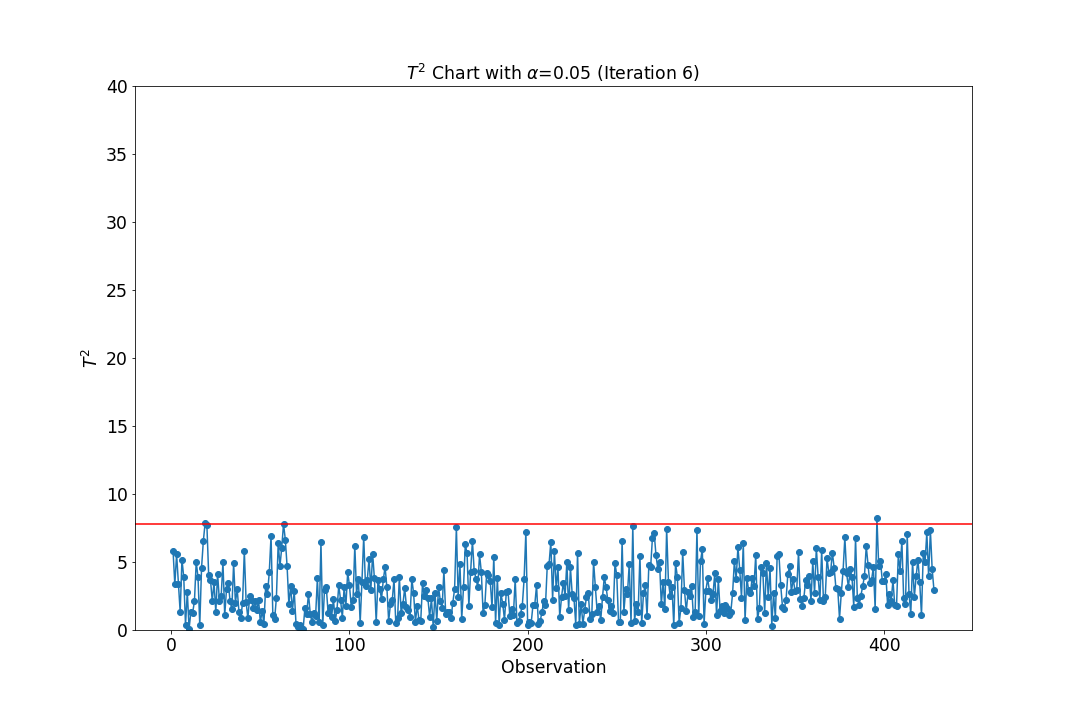
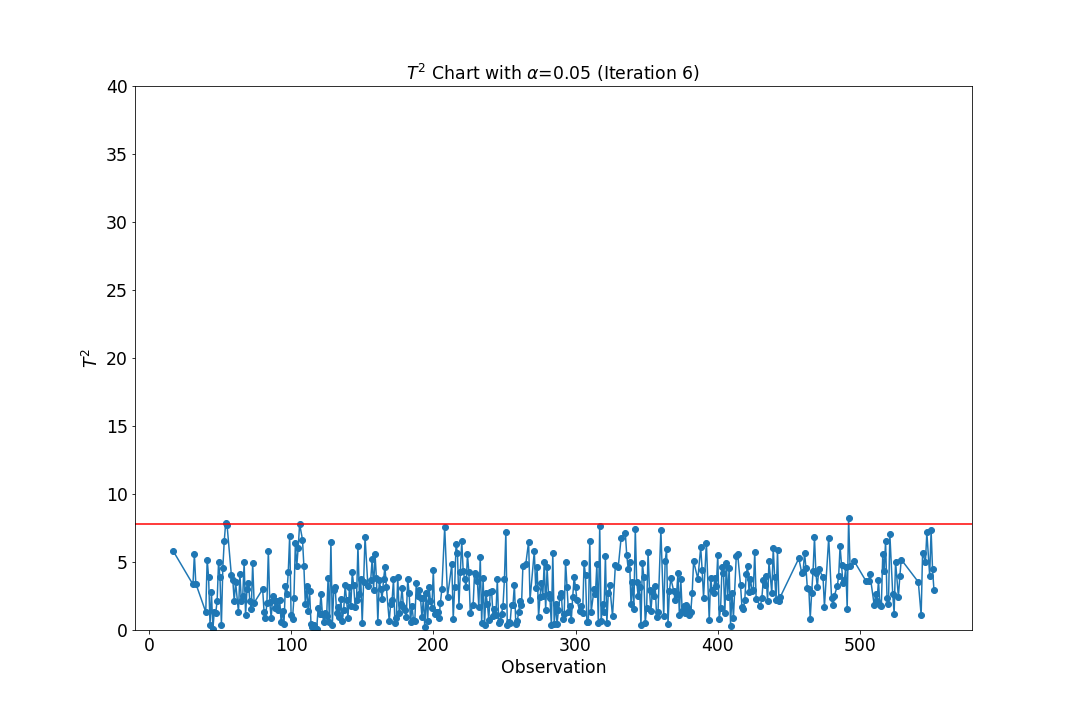
Revised Plt with Correct Index

Changed region(s): [[0.1528, 0.7028, 0.8861, 0.9167], [0.7639, 0.8861, 0.825, 0.9167]]

diff --git a/T2 Chart.py b/T2 Chart.py
@@ -28,9 +28,11 @@ else:
 
 
 def Phase1T2(df,iter1,p=3,alpha=0.05,ulim=40):
-    S=  np.cov(df.T) #Alternate way to get covariance
-    X_bar= np.array(df.mean(axis=0))
-    X=df.values # Get np array
+    Ind=df.obs
+    X=df.drop("obs",axis=1).copy()
+    S=  np.cov(X.T) #Alternate way to get covariance
+    X_bar= np.array(X.mean(axis=0))
+    X=X.values # Get np array
     S_inv=np.linalg.inv(S)
     T2=np.empty((X.shape[0],1))
     for i in range(X.shape[0]):
@@ -42,17 +44,16 @@ def Phase1T2(df,iter1,p=3,alpha=0.05,ulim=40):
     dof=p
     UCL=chi2.ppf(1-alpha,dof)
     fig,ax = plt.subplots()
-    ax.plot(range(1,T2.shape[0]+1),T2,marker="o")
+    ax.plot(Ind,T2,marker="o")
     ax.axhline(y=UCL, color='r', linestyle='-')
     ax.set(xlabel="Observation",ylabel=r"$T^2$",title=r"$T^2$ Chart with $\alpha$=0.05 (Iteration %s)"%iter1)
     ax.set_ylim(0,ulim)
     plt.close()
     # Get In Control Points
     df1=df.copy()
-    df1.loc[:,"obs"]=df1.index+1
     df1.loc[:,"UCL"]=UCL
     df1.loc[:,"T2"]=T2.reshape(df1.shape[0])
-    df1.loc[:,"delRow"]=np.where(df1['T2']>=df1['UCL'],True, False)
+    df1.loc[:,"delRow"]=np.where(df1['T2']>df1['UCL'],True, False)
     #Delete the following obs
     df1.loc[df1.delRow,'obs']
     #Deleting the obs
@@ -74,6 +75,8 @@ def Phase1T2(df,iter1,p=3,alpha=0.05,ulim=40):
 #dat4=Res3['Ndf'].loc[:,["PC1","PC2","PC3"]]
 #Res4=Phase1T2(df=dat4)
 
+
+dat.loc[:,"obs"]=dat.index+1
 Di_Res=dict()
 Di_ResF=dict()
 i=1
@@ -90,7 +93,7 @@ while True:
     Di_ResF[i]=Res1["Fig"]
     if(dat.shape[0]==Res1['Ndf'].shape[0]):
         break
-    dat=Res1['Ndf'].loc[:,["PC1","PC2","PC3"]].copy()
+    dat=Res1['Ndf'].loc[:,["obs","PC1","PC2","PC3"]].copy()
     i+=1
     
 Di_ResF[1]
